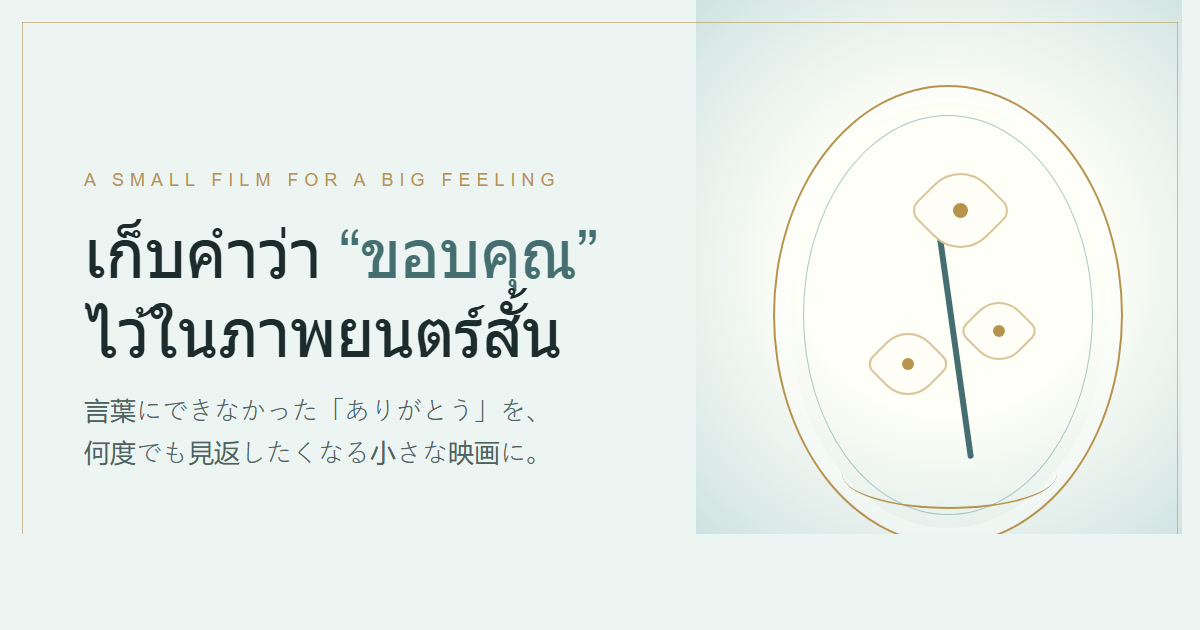
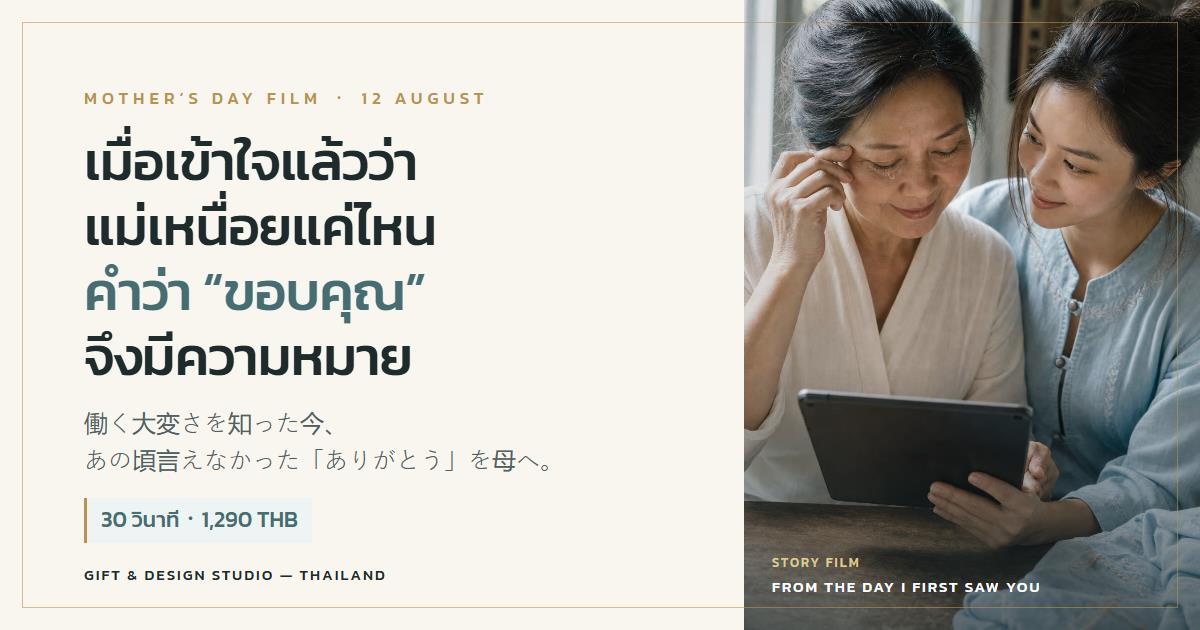
feat: 母の日LPを初回受注導線へ改善

diff --git a/portfolio/index.html b/portfolio/index.html
@@ -3,10 +3,10 @@
 <head>
 <meta charset="UTF-8">
 <meta name="viewport" content="width=device-width, initial-scale=1">
-<title>Gift &amp; Design Studio | วิดีโอของขวัญ・ギフト動画</title>
-<meta name="description" content="รับทำวิดีโอของขวัญจากภาพถ่ายและข้อความของคุณ รองรับไทย/ญี่ปุ่น。写真と言葉から、心に残るギフト動画を制作します。">
-<meta property="og:title" content="Gift &amp; Design Studio — วิดีโอของขวัญ・ギフト動画">
-<meta property="og:description" content="เก็บคำว่า ขอบคุณ ไว้ในภาพยนตร์สั้น / 写真・手紙・声から作る、家族の小さな映画">
+<title>วิดีโอวันแม่จากรูปถ่าย | 母の日ギフト動画</title>
+<meta name="description" content="เปลี่ยนรูปครอบครัวและคำขอบคุณที่ยังไม่เคยพูด ให้เป็นวิดีโอวันแม่ 30 วินาที ราคาเริ่มต้น 1,290 บาท รองรับไทย/ญี่ปุ่น。写真と言葉から作る母の日ギフト動画。">
+<meta property="og:title" content="คำขอบคุณที่ยังไม่เคยพูด ให้เป็นหนังสั้นวันแม่">
+<meta property="og:description" content="วิดีโอ 30 วินาทีจากรูปครอบครัว 10 รูป・1,290 บาท / 写真10枚から作る30秒の母の日ギフト">
 <meta property="og:url" content="https://mana-thai.github.io/line-ai-chatbot/">
 <meta property="og:image" content="https://mana-thai.github.io/line-ai-chatbot/images/ogp.jpg">
 <meta property="og:type" content="website">
@@ -27,11 +27,11 @@
 <main id="top">
   <section class="hero">
     <div class="hero-copy">
-      <p class="eyebrow">A SMALL FILM FOR A BIG FEELING</p>
-      <h1 lang="th">เก็บคำว่า<br><em>“ขอบคุณ”</em><br>ไว้ในภาพยนตร์<span class="mobile-break">สั้น</span></h1>
-      <p class="hero-jp">言葉にできなかった「ありがとう」を、<br>何度でも見返したくなる小さな映画に。</p>
-      <p class="hero-note" lang="th">สร้างจากรูปถ่ายและข้อความของคุณ<br><span>写真とメッセージから、世界にひとつだけ。</span></p>
-      <a class="btn btn-line" href="#contact" lang="th">ทักไลน์เพื่อเล่าเรื่องของคุณ <span>/ LINEで相談</span></a>
+      <p class="eyebrow">MOTHER’S DAY FILM ・ 12 AUGUST</p>
+      <h1 lang="th">เมื่อเข้าใจแล้วว่า<br>แม่เหนื่อยแค่ไหน<br><em>คำว่า “ขอบคุณ”</em><br>จึงมีความหมาย</h1>
+      <p class="hero-jp">働く大変さを知った今、<br>あの頃言えなかった「ありがとう」を母へ。</p>
+      <p class="hero-note" lang="th">เปลี่ยนรูปครอบครัว 10 รูปและข้อความของคุณ ให้เป็นวิดีโอ 30 วินาที<br><span>家族写真10枚とあなたの言葉から、30秒の贈り物を作ります。</span></p>
+      <a class="btn btn-line" href="#contact" lang="th">ส่งคำว่า “แม่” เพื่อปรึกษา <span>/「母」と送って相談</span></a>
     </div>
     <div class="hero-art" aria-hidden="true">
       <figure class="memory-frame">
@@ -43,7 +43,7 @@
   </section>
 
   <aside class="trust-strip" aria-label="サービスの特徴">
-    <span lang="th">ดูก่อนจ่าย <small>お支払い前に確認</small></span>
+    <span lang="th">ดูตัวอย่างก่อนจ่าย <small>透かし入り動画を確認後にお支払い</small></span>
     <span lang="th">แก้ฟรี 2 ครั้ง <small>修正2回無料</small></span>
     <span lang="th">ไทย / 日本語 <small>二言語対応</small></span>
   </aside>
@@ -56,12 +56,13 @@
       <p>今年の母の日は、<br>普段は照れくさくて<br>言えない言葉を贈りませんか。</p>
     </div>
     <div class="campaign-offer">
-      <p class="founding-slots" lang="th">รอบทดสอบ 5 คิวแรก ・ 初回5枠</p>
+      <p class="founding-slots" lang="th">ข้อเสนอเดียวสำหรับวันแม่ ・ 母の日限定Mini</p>
       <p class="price-big">1,290 <small>THB</small></p>
       <p lang="th">วิดีโอ 30 วินาที จากรูปถ่ายของคุณ</p>
       <p>写真から作る30秒のギフト動画</p>
       <p class="deadline" lang="th">ปิดรับ 5 ส.ค. ・ 8/5締切・8/11までにお届け</p>
       <p class="founding-note" lang="th">รูปไม่เกิน 10 รูป・เลือกแนวตั้งหรือแนวนอน・แก้ฟรี 2 ครั้ง<br><span>写真10枚まで・縦または横・修正2回まで無料。<br>掲載許可は購入条件ではありません。</span></p>
+      <a class="text-link" href="#contact" lang="th">ส่งคำว่า “แม่” เพื่อเช็กคิวว่าง → <span>空き枠を確認する</span></a>
     </div>
   </section>
 
@@ -97,7 +98,7 @@
           <video src="assets/sample-mothersday_portrait.mp4" poster="assets/sample-mothersday_poster.jpg"
                  controls playsinline preload="metadata" aria-label="母の日アートフィルム全編"></video>
         </div>
-        <figcaption><span>02</span><strong lang="th">จากวันที่แม่เห็นลูกครั้งแรก</strong><small>FULL FILM — 母が見つめた56秒</small></figcaption>
+        <figcaption><span>02</span><strong lang="th">จากวันที่แม่เห็นลูกครั้งแรก</strong><small>STORY FILM制作例（4,900 THB）— 母が見つめた56秒</small></figcaption>
       </figure>
       <figure>
         <div class="video-shell">
@@ -112,43 +113,24 @@
     <div class="section-heading">
       <div class="section-number">03</div>
       <div>
-        <p class="eyebrow">SERVICES &amp; PRICE</p>
-        <h2 lang="th">จากความรู้สึก สู่ของขวัญที่จับต้องได้</h2>
-        <p>想いを、贈れるかたちに。</p>
+        <p class="eyebrow">CHOOSE YOUR FILM</p>
+        <h2 lang="th">เริ่มจาก Mini สำหรับวันแม่</h2>
+        <p>母の日は、まずMiniだけで十分です。</p>
       </div>
     </div>
     <div class="service-list">
-      <article>
+      <article class="featured-service">
         <span class="service-no">01</span>
-        <div><h3 lang="th">Mini Gift Film <small>/ 30秒の贈り物</small></h3><p lang="th">ภาพ 10 รูป โครงเรื่องมาตรฐาน ดูตัวอย่างก่อนชำระเงิน</p><p>写真10枚まで・定型構成。気軽に贈れる入口作品。</p></div>
-        <p class="price">1,500 THB〜 <small>検証後・3日〜</small></p>
+        <div><h3 lang="th">Mini Gift Film <small>/ 30秒の贈り物</small></h3><p lang="th">ภาพ 10 รูป・วิดีโอแนวตั้งหรือแนวนอน 1 ชิ้น・แก้ฟรี 2 ครั้ง</p><p>写真10枚・縦または横1本・修正2回。母の日に必要なものを固定したプランです。</p></div>
+        <p class="price">1,290 THB <small>母の日限定・8/5締切</small></p>
       </article>
       <article>
         <span class="service-no">02</span>
-        <div><h3 lang="th">Story Film <small>/ あなただけの物語</small></h3><p lang="th">เรียบเรียงจดหมาย โทนสี และดนตรีเฉพาะสำหรับผู้รับ</p><p>手紙を推敲し、色・音楽・間を一人のために設計。</p></div>
+        <div><h3 lang="th">Story Film <small>/ もっと物語を込めたい方へ</small></h3><p lang="th">45–60 วินาที・เรียบเรียงเรื่อง สี และดนตรีให้เหมาะกับครอบครัวของคุณ</p><p>45〜60秒。手紙を整え、色・音楽・間までご家族の物語に合わせて設計します。上の56秒作品はこちらの制作例です。</p></div>
         <p class="price">4,900 THB <small>45–60秒</small></p>
       </article>
-      <article>
-        <span class="service-no">03</span>
-        <div><h3 lang="th">Heirloom Film <small>/ 家族史を残す映画</small></h3><p lang="th">สัมภาษณ์ เสียงจริง และฟื้นฟูภาพเก่า เก็บไว้ให้ครอบครัว</p><p>インタビュー・本人の声・古写真修復を含む保存版。</p></div>
-        <p class="price">12,000 THB〜 <small>2–3分</small></p>
-      </article>
-      <article>
-        <span class="service-no">04</span>
-        <div><h3 lang="th">Shop Story Campaign <small>/ 店舗の物語</small></h3><p lang="th">วิดีโอแบรนด์ คลิปแนวตั้ง 3 ชิ้น ภาพประชาสัมพันธ์ และข้อความโพสต์</p><p>ブランド動画・短尺3本・告知画像・投稿文を一式で。</p></div>
-        <p class="price">25,000 THB〜</p>
-      </article>
-      <article>
-        <span class="service-no">05</span>
-        <div><h3 lang="th">เว็บไซต์・ระบบสั่งซื้อ <small>/ Web・注文導線</small></h3><p lang="th">เล่าเรื่องร้าน เชื่อม LINE การจอง และระบบสั่งซื้อบนมือถือ</p><p>店の魅力からLINE・予約・注文までを一つの導線に。</p></div>
-        <p class="price">30,000 THB〜</p>
-      </article>
-      <article>
-        <span class="service-no">06</span>
-        <div><h3 lang="th">LINE AI Care <small>/ 月額運用</small></h3><p lang="th">ตอบ FAQ ไทย/ญี่ปุ่น พร้อมปรับปรุงคำตอบและรายงานทุกเดือน</p><p>24時間FAQ対応と、毎月の回答改善・レポート。</p></div>
-        <p class="price">ติดตั้ง 25,000 THB〜 <small>月額 4,900 THB〜</small></p>
-      </article>
     </div>
+    <p class="service-guidance" lang="th">ถ้ายังไม่แน่ใจ เลือก Mini ก่อน เราจะแนะนำ Story เฉพาะเมื่อเรื่องของคุณต้องการเวลามากกว่า 30 วินาที<br><span>迷ったらMiniを選んでください。30秒では想いが収まらない場合だけStoryをご案内します。</span></p>
   </section>
 
   <section class="flow" id="flow">
@@ -164,15 +146,35 @@
     </ol>
   </section>
 
+  <section class="assurance" id="assurance">
+    <div class="section-heading">
+      <div class="section-number">05</div>
+      <div><p class="eyebrow">BEFORE YOU ORDER</p><h2 lang="th">รูปครอบครัวของคุณ จะได้รับการดูแลอย่างระมัดระวัง</h2><p>大切な家族写真だから、曖昧なまま進めません。</p></div>
+    </div>
+    <div class="assurance-grid">
+      <article><h3 lang="th">จ่ายหลังดูตัวอย่าง</h3><p lang="th">ดูวิดีโอตัวอย่างแบบมีลายน้ำก่อนชำระเงิน และรับไฟล์ Full HD หลังชำระเงิน</p><p>透かし入りプレビューを確認後にお支払い。入金後、Full HD MP4を納品します。</p></article>
+      <article><h3 lang="th">การเผยแพร่เป็นทางเลือก</h3><p lang="th">ไม่เผยแพร่รูป ใบหน้า หรือข้อความ โดยไม่ได้รับอนุญาตอย่างชัดเจน</p><p>写真・顔・言葉は、明示的に許可された範囲だけ掲載します。掲載は購入条件ではありません。</p></article>
+      <article><h3 lang="th">คุยได้ทั้งไทยและญี่ปุ่น</h3><p lang="th">ผู้สร้างอาศัยอยู่ในประเทศไทย รับฟังความรู้สึกของครอบครัวทั้งสองภาษา</p><p>タイ在住の制作者が、日本語・タイ語の両方でご相談を伺います。</p></article>
+    </div>
+    <div class="faq">
+      <details><summary lang="th">ต้องเตรียมอะไรบ้าง? <span>何を用意すればいいですか？</span></summary><p lang="th">Mini ใช้รูปไม่เกิน 10 รูป และข้อความสั้น ๆ ที่อยากบอกคุณแม่ เราจะช่วยเรียงลำดับให้</p><p>Miniは写真10枚までと、お母さまへ伝えたい短い言葉をご用意ください。構成はこちらで整えます。</p></details>
+      <details><summary lang="th">แก้ไขได้กี่ครั้ง? <span>修正は何回できますか？</span></summary><p lang="th">แก้ฟรี 2 ครั้ง ครั้งที่ 3 เป็นต้นไป 500 บาทต่อครั้ง</p><p>2回まで無料。3回目以降は1回500 THBです。</p></details>
+      <details><summary lang="th">รับไฟล์แบบไหน? <span>納品形式は？</span></summary><p lang="th">ไฟล์ MP4 แบบ Full HD เลือกแนวตั้งสำหรับมือถือ/LINE หรือแนวนอนสำหรับทีวีอย่างใดอย่างหนึ่ง</p><p>Full HD MP4。スマホ・LINE向け縦型、またはテレビ向け横型のどちらか1本です。</p></details>
+      <details><summary lang="th">ถ้า Mini ไม่พอ? <span>30秒では足りない場合は？</span></summary><p lang="th">หากต้องการเล่าเรื่องมากขึ้น เราจะแจ้งก่อนเริ่มงานและเสนอ Story Film 45–60 วินาที</p><p>制作開始前にご説明し、45〜60秒のStory Filmをご提案します。無断で料金は変わりません。</p></details>
+    </div>
+  </section>
+
   <section class="contact" id="contact">
     <span class="contact-flower" aria-hidden="true"></span>
     <p class="eyebrow">TELL US YOUR STORY</p>
-    <h2 lang="th">มีคำบางคำที่อยากบอก<br>คนสำคัญไหม?</h2>
-    <p lang="th">ทักมาคุยได้เลย รองรับภาษาไทยและญี่ปุ่น</p>
-    <p>大切な人へ伝えたい言葉を、まずは聞かせてください。</p>
+    <h2 lang="th">ส่งคำว่า “แม่”<br>แล้วเราจะเริ่มจากเรื่องของคุณ</h2>
+    <p lang="th">ไม่ต้องตัดสินใจเรื่องรูปหรือแผนก่อน ปรึกษาฟรี รองรับภาษาไทยและญี่ปุ่น</p>
+    <p>写真もプランも、まだ決めなくて大丈夫です。「母」と一言送ってください。</p>
     <!-- LINE URL確定後、このリンクだけを友だち追加URLへ差し替える。個別送付中は返信導線として使う。 -->
-    <a class="btn btn-line" href="#top" data-line-placeholder lang="th">ตอบกลับในแชต LINE นี้ <span>/ このLINEトークへ返信</span></a>
-    <small lang="th">ประเมินราคาฟรี ・ お見積り無料</small>
+    <div class="line-pending" data-line-placeholder>
+      <p lang="th">หากได้รับลิงก์นี้ทาง LINE ให้ส่งคำว่า <strong>“แม่”</strong> กลับไปยังผู้ส่ง<br><span>LINEでこのページを受け取った方は、送信者へ<strong>「母」</strong>と返信してください。</span></p>
+    </div>
+    <small lang="th">ปรึกษาและประเมินราคาฟรี ・ 相談・お見積り無料</small>
   </section>
 </main>
 

diff --git a/portfolio/style.css b/portfolio/style.css
@@ -122,6 +122,8 @@ section { padding: 76px max(22px, calc((100vw - 1120px) / 2)); }
 .campaign-offer .deadline { color: var(--ink); margin-top: 14px; padding-top: 12px; border-top: 1px solid var(--line); }
 .campaign-offer .founding-note { margin-top: 16px; padding-left: 14px; border-left: 1px solid var(--gold); color: var(--ink); }
 .campaign-offer .founding-note span { color: var(--ink-soft); font-size: .76rem; }
+.text-link { display: inline-block; min-height: 44px; margin-top: 18px; color: var(--blue-deep); font: 500 .82rem/1.5 "Kanit", sans-serif; text-underline-offset: 5px; }
+.text-link span { margin-left: 6px; color: var(--ink-soft); font-size: .74rem; }
 
 .works { background: var(--night); color: #f7f3e8; }
 .works .section-heading > div > p:last-child { color: #aebfc0; }
@@ -149,12 +151,15 @@ section { padding: 76px max(22px, calc((100vw - 1120px) / 2)); }
 .services { background: var(--paper); }
 .service-list { border-top: 1px solid var(--line); }
 .service-list article { display: grid; grid-template-columns: 54px 1fr auto; gap: 22px; align-items: center; padding: 27px 0; border-bottom: 1px solid var(--line); }
+.service-list .featured-service { margin-inline: -22px; padding-inline: 22px; background: rgba(237,244,243,.78); border-left: 2px solid var(--gold); }
 .service-no { color: var(--gold); font: 400 .72rem/1 "Kanit", sans-serif; }
 .service-list h3 { font-size: 1.2rem; }
 .service-list h3 small { color: var(--ink-soft); font-size: .76rem; }
 .service-list article > div p { color: var(--ink-soft); font-size: .86rem; }
 .price { color: var(--blue-deep); font: 500 1.1rem/1.4 "Kanit", sans-serif; text-align: right; }
 .price small { display: block; color: var(--ink-soft); font-size: .68rem; }
+.service-guidance { max-width: 760px; margin: 26px 0 0 54px; padding-left: 18px; border-left: 1px solid var(--gold); color: var(--ink); font-size: .88rem; }
+.service-guidance span { color: var(--ink-soft); font-size: .8rem; }
 
 .flow { background: var(--paper-deep); }
 .flow ol { list-style: none; display: grid; grid-template-columns: repeat(4, 1fr); border-top: 1px solid var(--line); }
@@ -165,12 +170,31 @@ section { padding: 76px max(22px, calc((100vw - 1120px) / 2)); }
 .flow strong { display: block; margin: 22px 0 12px; font: 400 1rem/1.4 "Kanit", sans-serif; }
 .flow li p { color: var(--ink-soft); font-size: .86rem; }
 
+.assurance { background: var(--paper); }
+.assurance-grid { display: grid; grid-template-columns: repeat(3, 1fr); gap: 1px; background: var(--line); border: 1px solid var(--line); }
+.assurance-grid article { min-height: 250px; padding: 28px; background: var(--paper); }
+.assurance-grid h3 { margin-bottom: 16px; font-size: 1.08rem; }
+.assurance-grid p { color: var(--ink-soft); font-size: .84rem; }
+.assurance-grid p + p { margin-top: 8px; }
+.faq { max-width: 900px; margin: 48px auto 0; border-top: 1px solid var(--line); }
+.faq details { border-bottom: 1px solid var(--line); }
+.faq summary { min-height: 58px; padding: 16px 34px 16px 0; position: relative; cursor: pointer; list-style: none; font: 500 .92rem/1.5 "Kanit", sans-serif; }
+.faq summary::-webkit-details-marker { display: none; }
+.faq summary::after { content: "+"; position: absolute; right: 6px; top: 14px; color: var(--gold); font-size: 1.2rem; }
+.faq details[open] summary::after { content: "−"; }
+.faq summary span { margin-left: 8px; color: var(--ink-soft); font-size: .76rem; }
+.faq details p { padding: 0 34px 12px 0; color: var(--ink-soft); font-size: .84rem; }
+
 .contact { text-align: center; padding-top: 104px; padding-bottom: 104px; background: var(--mist); }
 .contact-flower { margin-bottom: 20px; transform: scale(1.5); }
 .contact h2 { font-size: clamp(2.2rem, 4.8vw, 4.2rem); margin: 15px 0 22px; }
 .contact > p:not(.eyebrow) { color: var(--ink-soft); }
 .contact .btn { margin: 30px 0 10px; }
 .contact > small { display: block; color: var(--ink-soft); }
+.line-pending { max-width: 700px; margin: 30px auto 14px; padding: 18px 22px; border: 1px solid rgba(70,110,114,.3); background: rgba(255,255,255,.55); }
+.line-pending p { color: var(--ink); font-size: .88rem; }
+.line-pending strong { color: var(--blue-deep); }
+.line-pending span { color: var(--ink-soft); font-size: .8rem; }
 
 footer { display: flex; justify-content: space-between; padding: 26px 5vw; background: var(--night); color: #9fb1b2; font: 400 .68rem/1.5 "Kanit", sans-serif; letter-spacing: .1em; text-transform: uppercase; }
 
@@ -207,9 +231,14 @@ footer { display: flex; justify-content: space-between; padding: 26px 5vw; backg
   .works figure:nth-child(2) { margin-top: 0; }
   .service-list article { grid-template-columns: 34px 1fr; gap: 14px; }
   .service-list .price { grid-column: 2; text-align: left; margin-top: 5px; }
+  .service-list .featured-service { margin-inline: -10px; padding-inline: 10px; }
+  .service-guidance { margin-left: 38px; }
   .flow ol { grid-template-columns: 1fr; }
   .flow li { padding: 24px 0; min-height: 0; border-right: 0; border-bottom: 1px solid var(--line); }
   .flow li + li { padding-left: 0; }
+  .assurance-grid { grid-template-columns: 1fr; }
+  .assurance-grid article { min-height: 0; }
+  .faq summary span { display: block; margin-left: 0; }
   .contact { padding-top: 82px; padding-bottom: 82px; }
   .contact h2 { font-size: 1.9rem; }
   .contact .btn { width: 100%; }

diff --git a/portfolio/images/ogp.html b/portfolio/images/ogp.html
@@ -4,16 +4,17 @@
 <meta charset="UTF-8">
 <link rel="stylesheet" href="../fonts/fonts.css">
 <style>
-*{box-sizing:border-box;margin:0;padding:0} body{width:1200px;height:630px;overflow:hidden;background:#edf4f3;color:#1d2b2d;font-family:"Sarabun","Noto Sans Thai","Noto Sans CJK JP",sans-serif;display:grid;grid-template-columns:58% 42%;position:relative}body:after{content:"";position:absolute;inset:22px;border:1px solid rgba(185,147,78,.58);pointer-events:none}.copy{padding:82px 40px 70px 84px;display:flex;flex-direction:column;justify-content:center}.eyebrow{color:#b9934e;font:500 18px/1.4 "Kanit",sans-serif;letter-spacing:6px}.copy h1{font:400 67px/1.18 "Kanit",sans-serif;letter-spacing:-1px;margin:22px 0 18px}.copy h1 em{color:#466e72;font-style:normal}.jp{font-size:26px;color:#4f6263;line-height:1.6}.brand{position:absolute;left:84px;bottom:54px;font:500 18px/1 "Kanit",sans-serif;letter-spacing:2px}.art{background:radial-gradient(circle at 50% 42%,#fffef8 0 34%,#dbe9e8 72%,#bed4d5 100%);position:relative;display:grid;place-items:center}.oval{width:350px;height:460px;border-radius:50%;border:2px solid #b9934e;position:relative;box-shadow:inset 0 0 0 15px rgba(255,255,255,.38)}.oval:before{content:"";position:absolute;inset:28px;border:1px solid #88aeb2;border-radius:50%;opacity:.7}.stem{position:absolute;width:6px;height:245px;background:#466e72;left:176px;top:128px;transform:rotate(-8deg);border-radius:9px}.flower{position:absolute;width:75px;height:75px;background:#fffdf7;border:2px solid rgba(185,147,78,.55);border-radius:50% 18% 50% 18%;transform:rotate(45deg)}.flower:after{content:"";position:absolute;inset:28px;background:#b9934e;border-radius:50%}.f1{top:86px;left:148px}.f2{top:215px;left:195px;width:58px;height:58px}.f2:after{inset:21px}.f3{top:246px;left:102px;width:62px;height:62px}.f3:after{inset:23px}.line{position:absolute;width:215px;height:70px;left:67px;bottom:34px;border-bottom:2px solid #b9934e;border-radius:50%}
+*{box-sizing:border-box;margin:0;padding:0} body{width:1200px;height:630px;overflow:hidden;background:#f8f6ef;color:#1d2b2d;font-family:"Sarabun","Noto Sans Thai","Noto Sans CJK JP",sans-serif;display:grid;grid-template-columns:62% 38%;position:relative}body:after{content:"";position:absolute;inset:22px;border:1px solid rgba(185,147,78,.58);pointer-events:none;z-index:4}.copy{padding:68px 46px 68px 84px;display:flex;flex-direction:column;justify-content:center;position:relative;z-index:2}.eyebrow{color:#b9934e;font:500 17px/1.4 "Kanit",sans-serif;letter-spacing:5px}.copy h1{font:400 55px/1.18 "Kanit",sans-serif;letter-spacing:-1px;margin:18px 0 15px}.copy h1 em{color:#466e72;font-style:normal}.jp{font-size:24px;color:#4f6263;line-height:1.55}.offer{display:inline-block;width:max-content;margin-top:20px;padding:8px 14px;border-left:3px solid #b9934e;background:#edf4f3;color:#466e72;font:500 22px/1.3 "Kanit",sans-serif}.brand{position:absolute;left:84px;bottom:48px;font:500 15px/1 "Kanit",sans-serif;letter-spacing:2px}.art{position:relative;overflow:hidden;background:#18272b}.art:after{content:"";position:absolute;inset:0;background:linear-gradient(90deg,rgba(24,39,43,.1),transparent 35%),linear-gradient(0deg,rgba(24,39,43,.65),transparent 42%)}.art img{width:100%;height:100%;object-fit:cover;object-position:center 42%;filter:saturate(.8) contrast(1.03)}.caption{position:absolute;z-index:2;left:28px;right:28px;bottom:32px;color:#fff;font:400 15px/1.5 "Kanit",sans-serif;letter-spacing:2px}.caption span{display:block;color:#dfc990;font-size:13px;margin-bottom:3px}
 </style>
 </head>
 <body>
   <div class="copy">
-    <p class="eyebrow">A SMALL FILM FOR A BIG FEELING</p>
-    <h1 lang="th">เก็บคำว่า <em>“ขอบคุณ”</em><br>ไว้ในภาพยนตร์สั้น</h1>
-    <p class="jp">言葉にできなかった「ありがとう」を、<br>何度でも見返したくなる小さな映画に。</p>
+    <p class="eyebrow">MOTHER’S DAY FILM ・ 12 AUGUST</p>
+    <h1 lang="th">เมื่อเข้าใจแล้วว่า<br>แม่เหนื่อยแค่ไหน<br><em>คำว่า “ขอบคุณ”</em><br>จึงมีความหมาย</h1>
+    <p class="jp">働く大変さを知った今、<br>あの頃言えなかった「ありがとう」を母へ。</p>
+    <p class="offer">30 วินาที・1,290 THB</p>
     <p class="brand">GIFT &amp; DESIGN STUDIO — THAILAND</p>
   </div>
-  <div class="art"><div class="oval"><span class="stem"></span><span class="flower f1"></span><span class="flower f2"></span><span class="flower f3"></span><span class="line"></span></div></div>
+  <div class="art"><img src="../assets/sample-mothersday_poster.jpg" alt=""><p class="caption"><span>STORY FILM</span>FROM THE DAY I FIRST SAW YOU</p></div>
 </body>
 </html>

diff --git a/business/handover-prompt.md b/business/handover-prompt.md
@@ -387,4 +387,23 @@
   -13.37 LUFS / -1.50 dBTP。全390フレームのデコードに成功。0.40 / 0.80 / 1.17 /
   1.40 / 2.50 / 4.03 / 4.43 / 8.03 / 12.30秒を最終MP4から原寸抽出し、転倒・閉眼・
   右スライド・脚立両手保持・青一色の後ろ姿・文字掲上・完成画面を目視確認済み。
+
+## 10. ポートフォリオv7（2026-07-23追加）
+
+- `pro-marketing-director` と `launch-ai-side-hustle` のP0判断に基づき、ポートフォリオを
+  作品集から「母の日Miniの初回受注を取る単一導線」へ再構成。
+- ヒーロー訴求を「働く大変さを知った今、あの頃言えなかったありがとうを母へ」に変更。
+- 母の日Miniを1,290 THB、写真10枚、30秒、縦横どちらか、修正2回、8/5締切として主表示。
+- 56秒の代表動画は `Story Film制作例（4,900 THB）` と明記し、Miniとの価格矛盾を解消。
+- P0では選択肢を増やさないため、消費者向けページからHeirloom / Shop Story / Web /
+  LINE AI Careを外し、MiniとStoryの2択に限定。法人商品は収入計画から削除していない。
+- 透かし入りプレビュー確認後の支払い、入金後Full HD納品、掲載任意、修正条件、納品形式、
+  日本語・タイ語対応を信頼情報とFAQへ追加。未確認の削除期限・キャンセル条件は掲載していない。
+- LINE URL未取得のため、動かない疑似ボタンは撤去。現状はLINEでこのURLを受け取った人が
+  送信者へ「母」と返信する案内を表示し、`data-line-placeholder` は差し替え位置として維持。
+- ローカル品質確認: Playwright 375x812 / 1280x800、横スクロールなし、画像3点読込成功、
+  動画56秒・1080x1920、console error 0。確認画像は `output/playwright/portfolio-v7-*.png`。
+- OGPも同じ母の日訴求、1,290 THB、母娘の代表画像へ更新。正本は
+  `portfolio/images/ogp.html`、配信用画像は `portfolio/images/ogp.jpg`（1200x630）。
+- 未解消の販売ブロッカーは実LINE URLのみ。取得後、最終案内をLINE友だち追加ボタンへ差し替える。
 ```
